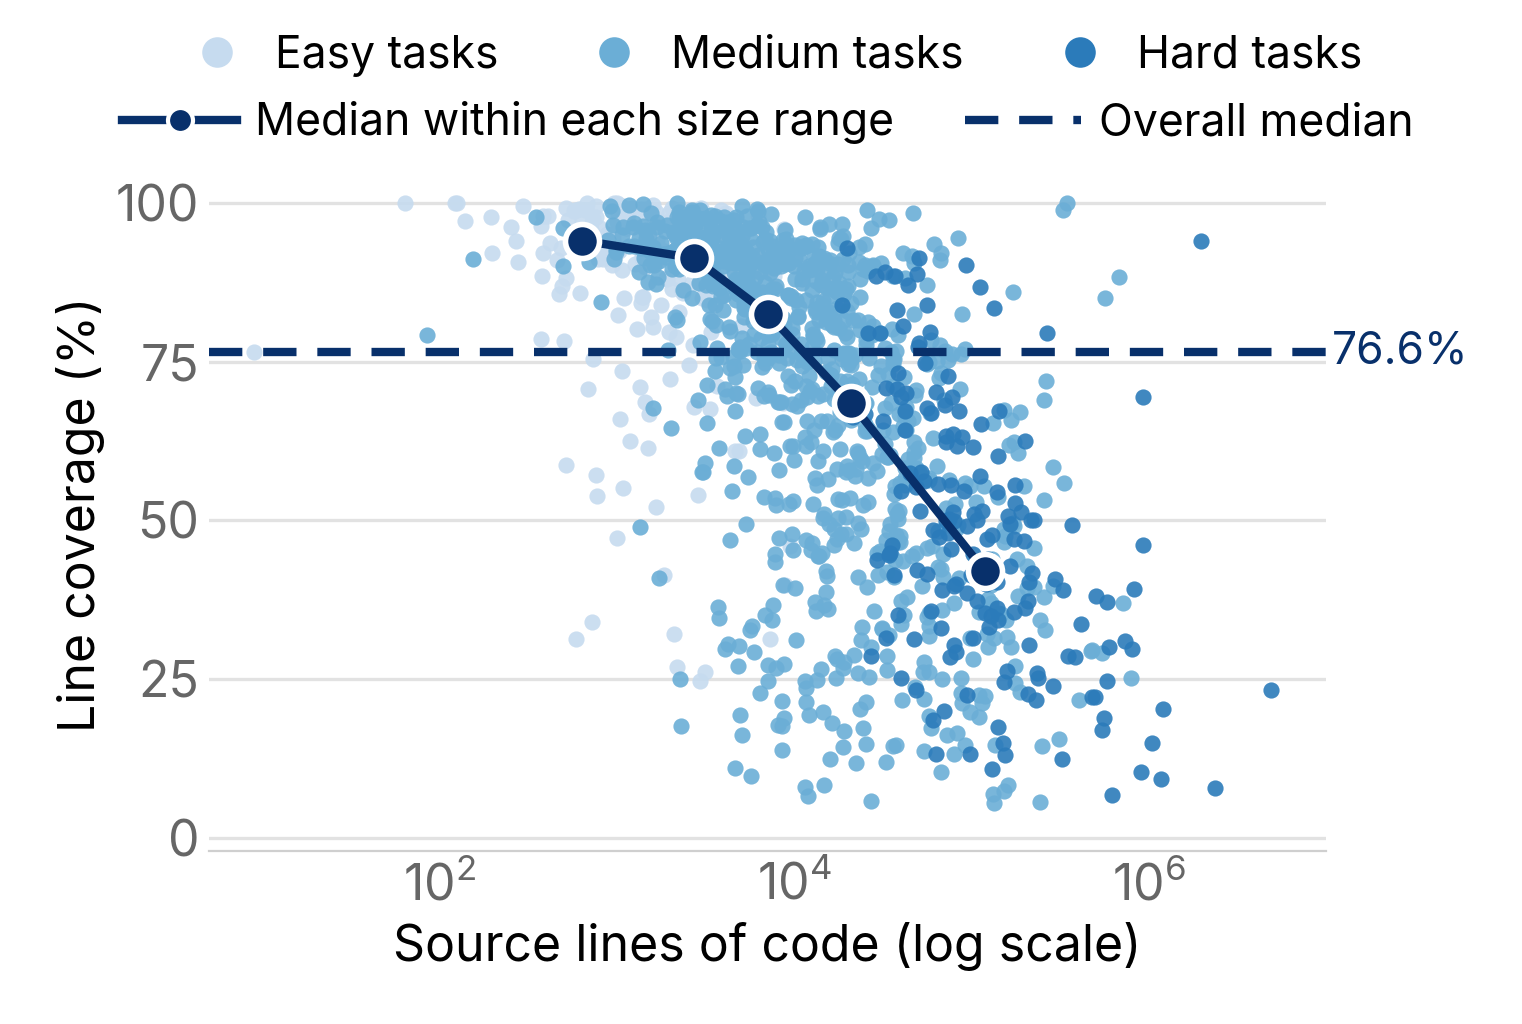
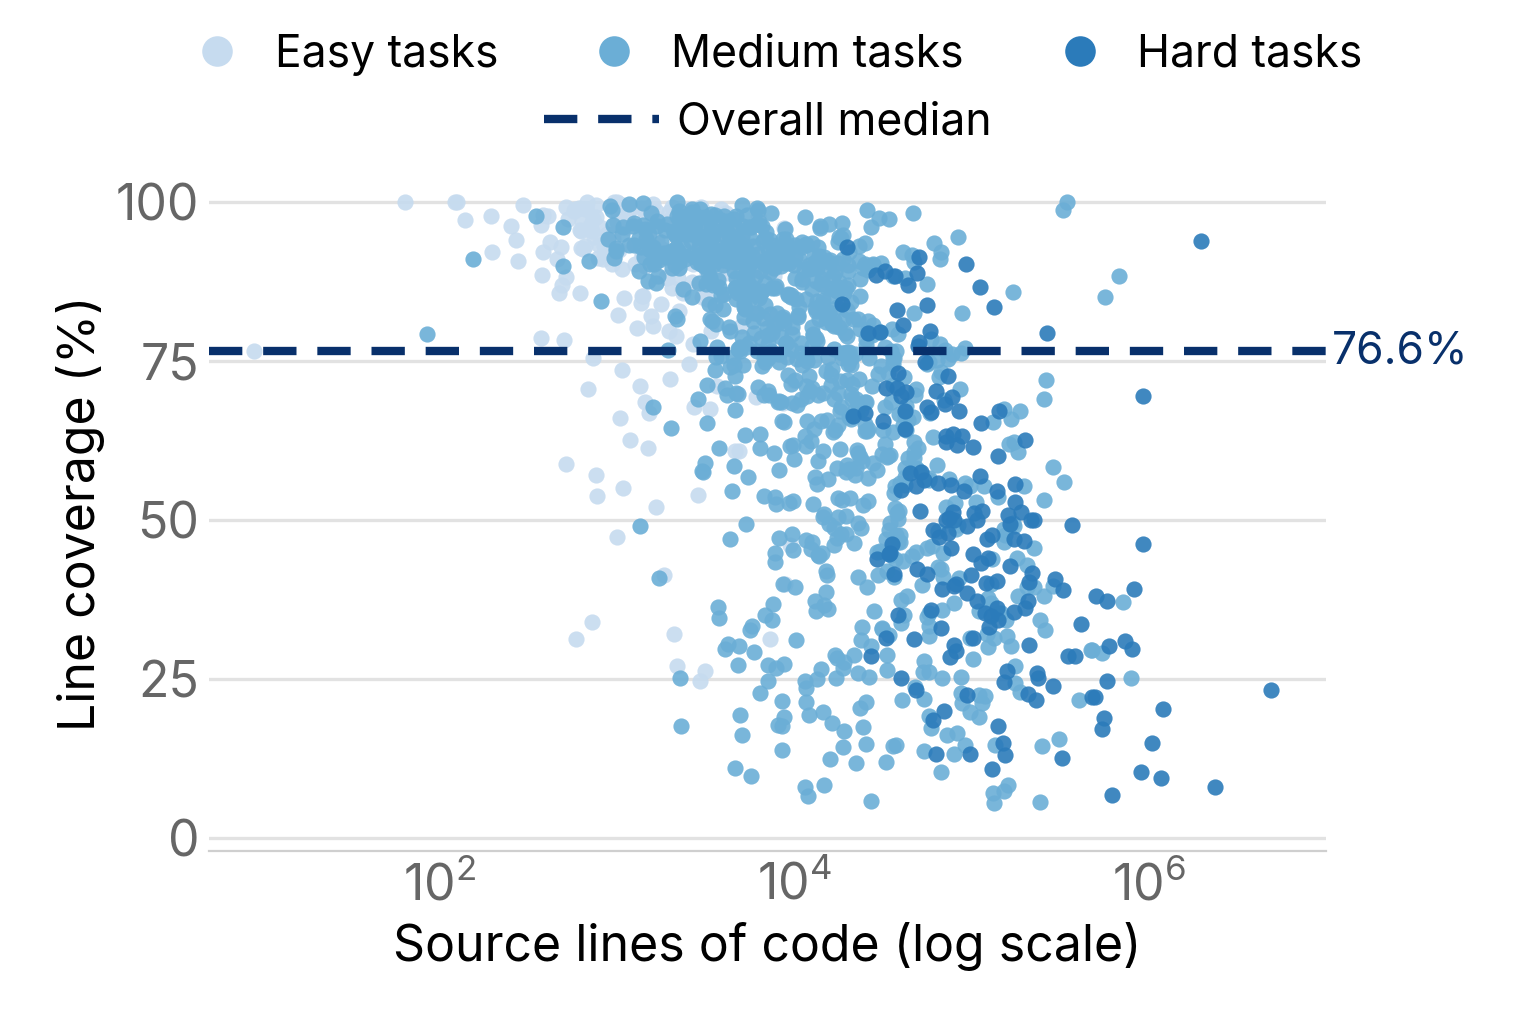
Drop Figure 4 size-range median line; light-blue connectors in Figure 1

diff --git a/index.html b/index.html
@@ -54,7 +54,7 @@
 <p><b>Long-horizon agentic RL improves across harnesses.</b> Trained in GitHub Copilot CLI, the policy improves ProgramBench in all harnesses we test, including three unseen during training: Claude Code (+10.3), Codex CLI (+8.3), and mini-SWE-agent (+4.1). Under an extended six-hour budget, Claude Code goes from 19.0 to 27.6.</p>
 
 <figure class="narrow">
-<img src="assets/main_result.gif?v=a1bc9901" width="1421" height="586" alt="ProgramBench pass rate before and after RL across four harnesses">
+<img src="assets/main_result.gif?v=2cdb8900" width="1421" height="586" alt="ProgramBench pass rate before and after RL across four harnesses">
 <figcaption><b>Figure 1.</b> ProgramBench pass rate of Qwen3.6-35B-A3B before and after RL on ProgramLab, with a two-hour budget. RL runs only in GitHub Copilot CLI, yet the gains carry over to all four harnesses.</figcaption>
 </figure>
 
@@ -88,10 +88,10 @@
 
 <figure class="small">
 <div class="plot">
-<img src="assets/coverage.png?v=7c5b69be" width="1522" height="1024" alt="Line coverage against project size, with three example projects" loading="lazy">
-<a class="pt easy" href="https://github.com/FiloSottile/mkcert" target="_blank" rel="noopener" style="left: 42.13%; top: 24.83%" aria-label="FiloSottile/mkcert on GitHub"><span class="dot"></span><span class="card"><span class="repo">FiloSottile/mkcert</span><span class="meta"><span class="tag">Easy</span>Go · ~1.4K lines · 121 tests</span><span class="bar"><span style="width: 91.9%"></span></span><span class="meta">91.9% line coverage<span class="open">GitHub ↗</span></span></span></a>
-<a class="pt medium" href="https://github.com/PaulJuliusMartinez/jless" target="_blank" rel="noopener" style="left: 52.63%; top: 33.60%" aria-label="PaulJuliusMartinez/jless on GitHub"><span class="dot"></span><span class="card"><span class="repo">PaulJuliusMartinez/jless</span><span class="meta"><span class="tag">Medium</span>Rust · ~11K lines · 106 tests</span><span class="bar"><span style="width: 77.8%"></span></span><span class="meta">77.8% line coverage<span class="open">GitHub ↗</span></span></span></a>
-<a class="pt hard" href="https://github.com/caddyserver/caddy" target="_blank" rel="noopener" style="left: 63.75%; top: 56.19%" aria-label="caddyserver/caddy on GitHub"><span class="dot"></span><span class="card"><span class="repo">caddyserver/caddy</span><span class="meta"><span class="tag">Hard</span>Go · ~99K lines · 262 tests</span><span class="bar"><span style="width: 41.3%"></span></span><span class="meta">41.3% line coverage<span class="open">GitHub ↗</span></span></span></a>
+<img src="assets/coverage.png?v=5893c89b" width="1522" height="1024" alt="Line coverage against project size, with three example projects" loading="lazy">
+<a class="pt easy" href="https://github.com/FiloSottile/mkcert" target="_blank" rel="noopener" style="left: 42.13%; top: 24.76%" aria-label="FiloSottile/mkcert on GitHub"><span class="dot"></span><span class="card"><span class="repo">FiloSottile/mkcert</span><span class="meta"><span class="tag">Easy</span>Go · ~1.4K lines · 121 tests</span><span class="bar"><span style="width: 91.9%"></span></span><span class="meta">91.9% line coverage<span class="open">GitHub ↗</span></span></span></a>
+<a class="pt medium" href="https://github.com/PaulJuliusMartinez/jless" target="_blank" rel="noopener" style="left: 52.63%; top: 33.54%" aria-label="PaulJuliusMartinez/jless on GitHub"><span class="dot"></span><span class="card"><span class="repo">PaulJuliusMartinez/jless</span><span class="meta"><span class="tag">Medium</span>Rust · ~11K lines · 106 tests</span><span class="bar"><span style="width: 77.8%"></span></span><span class="meta">77.8% line coverage<span class="open">GitHub ↗</span></span></span></a>
+<a class="pt hard" href="https://github.com/caddyserver/caddy" target="_blank" rel="noopener" style="left: 63.75%; top: 56.15%" aria-label="caddyserver/caddy on GitHub"><span class="dot"></span><span class="card"><span class="repo">caddyserver/caddy</span><span class="meta"><span class="tag">Hard</span>Go · ~99K lines · 262 tests</span><span class="bar"><span style="width: 41.3%"></span></span><span class="meta">41.3% line coverage<span class="open">GitHub ↗</span></span></span></a>
 </div>
 <figcaption><b>Figure 4.</b> Line coverage of each hidden test suite against project size, falling from over 90% under 5K lines to 42.0% above 50K lines. Hover over a highlighted point for details, or click to open it on GitHub.</figcaption>
 </figure>
